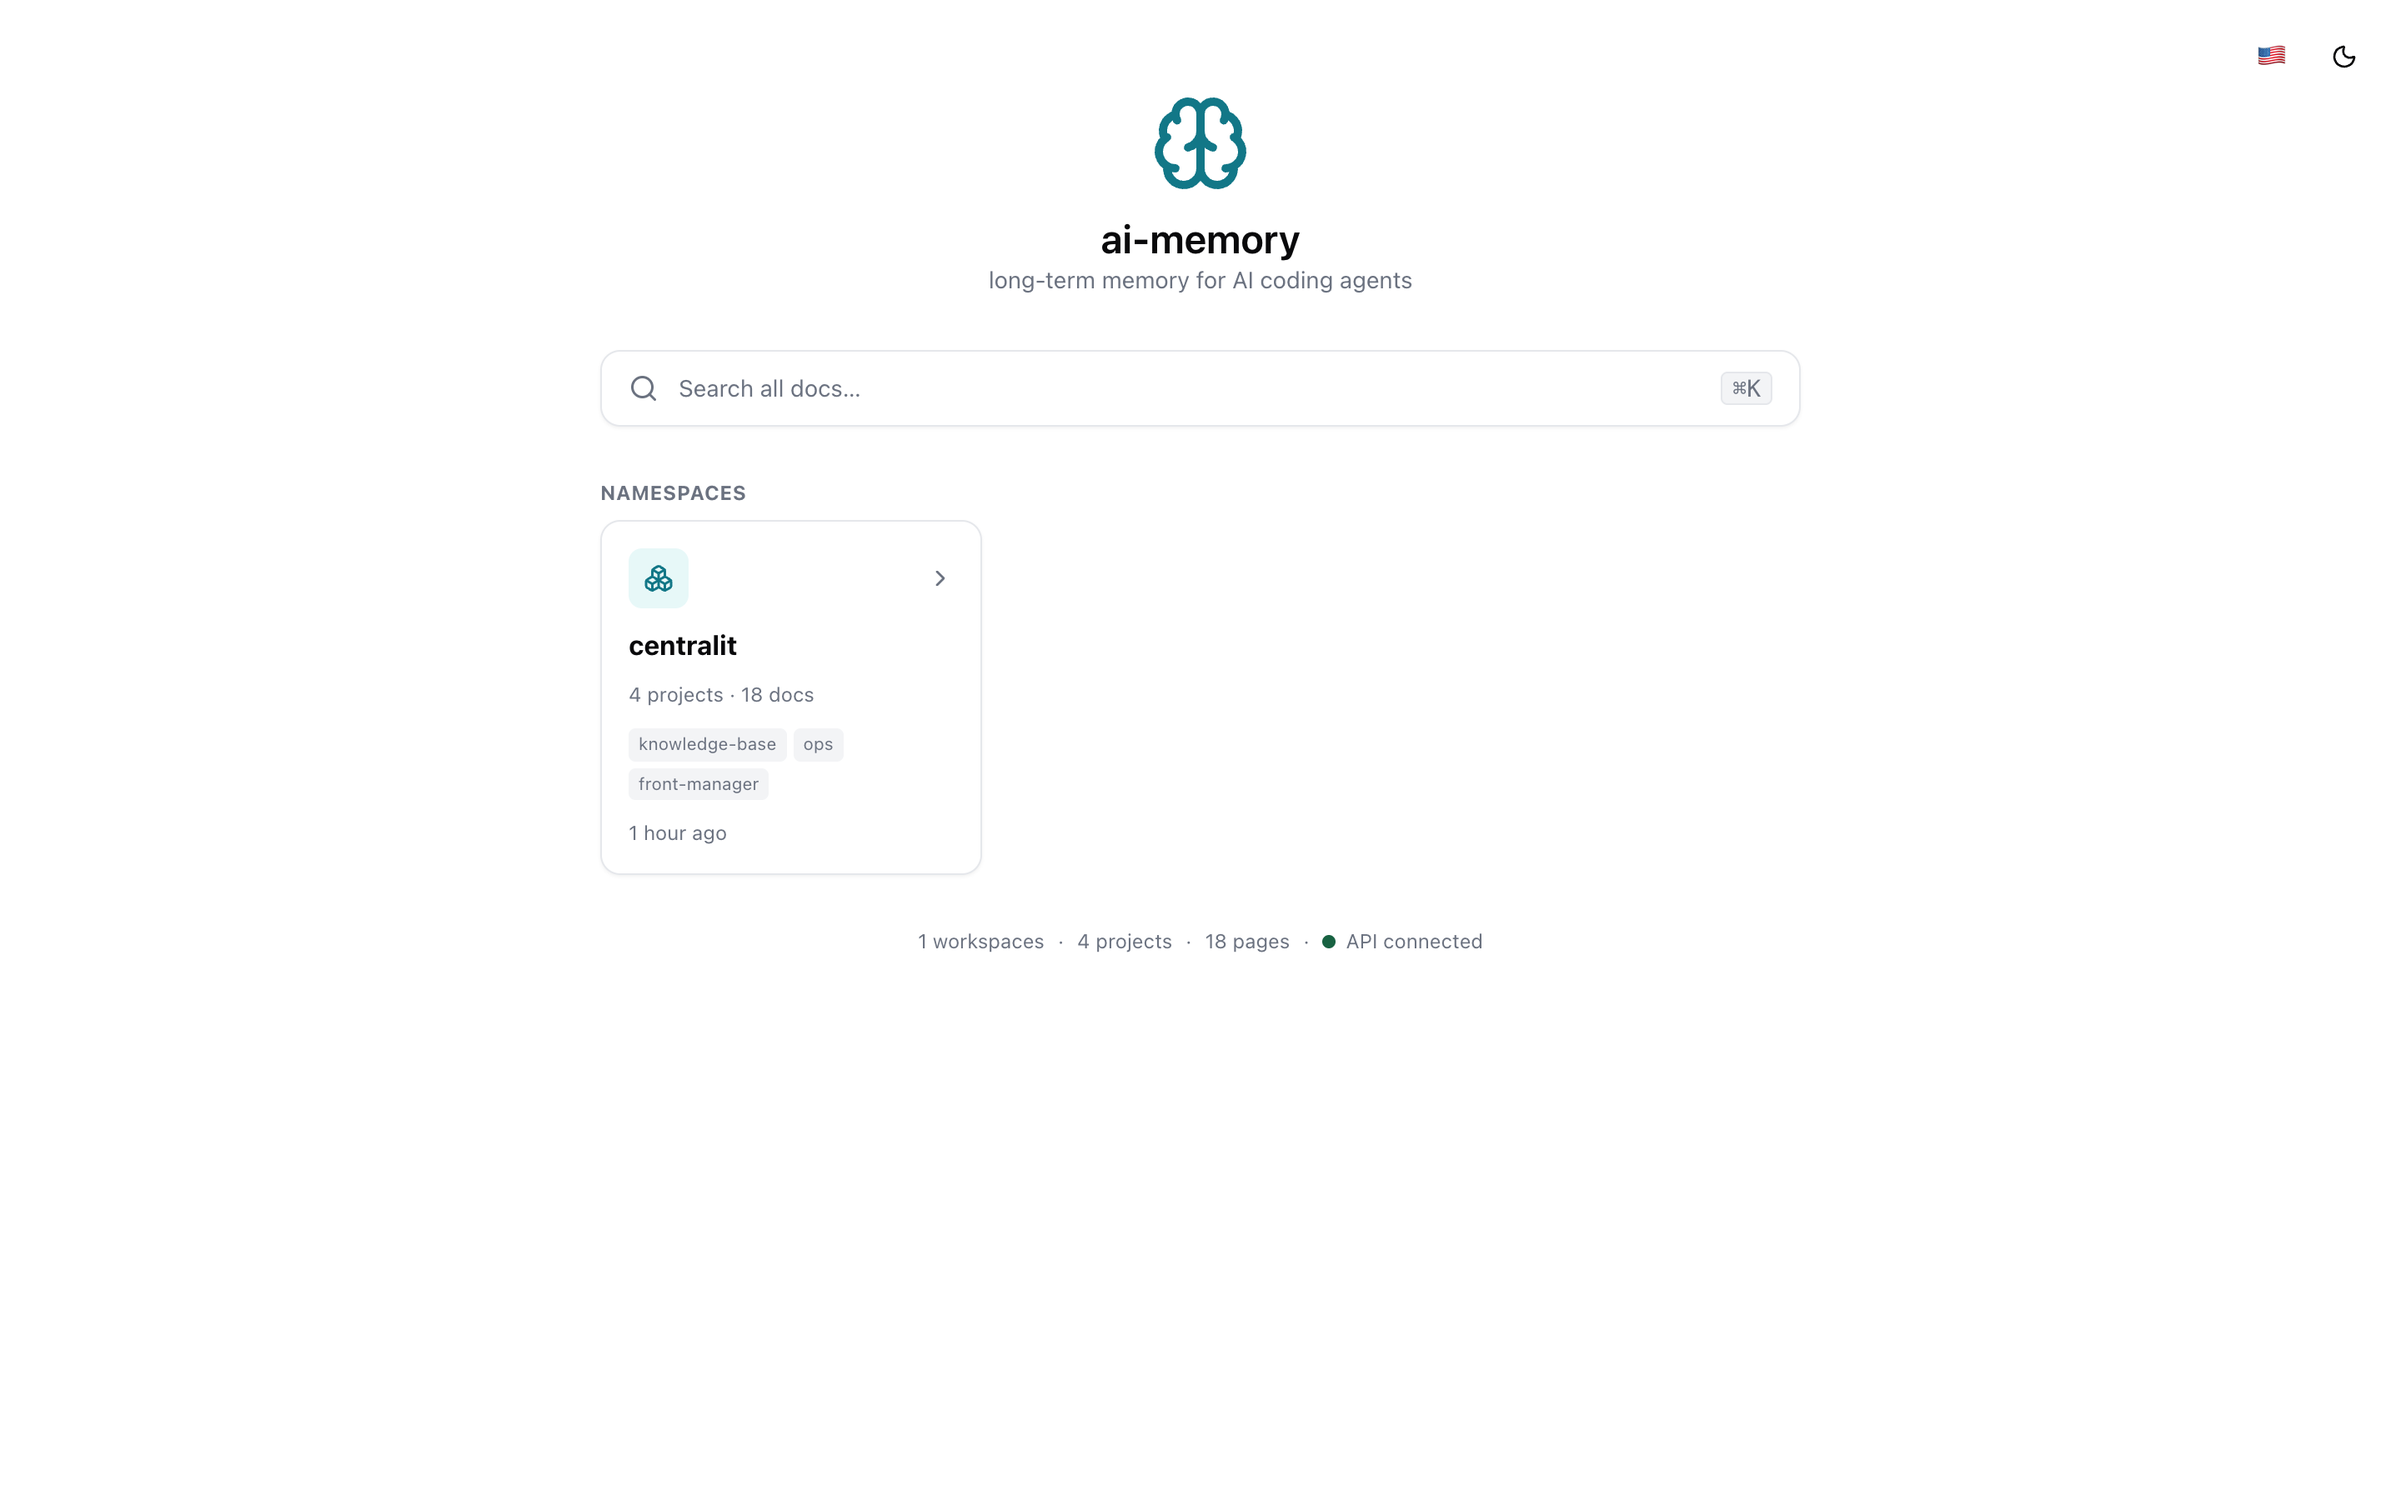
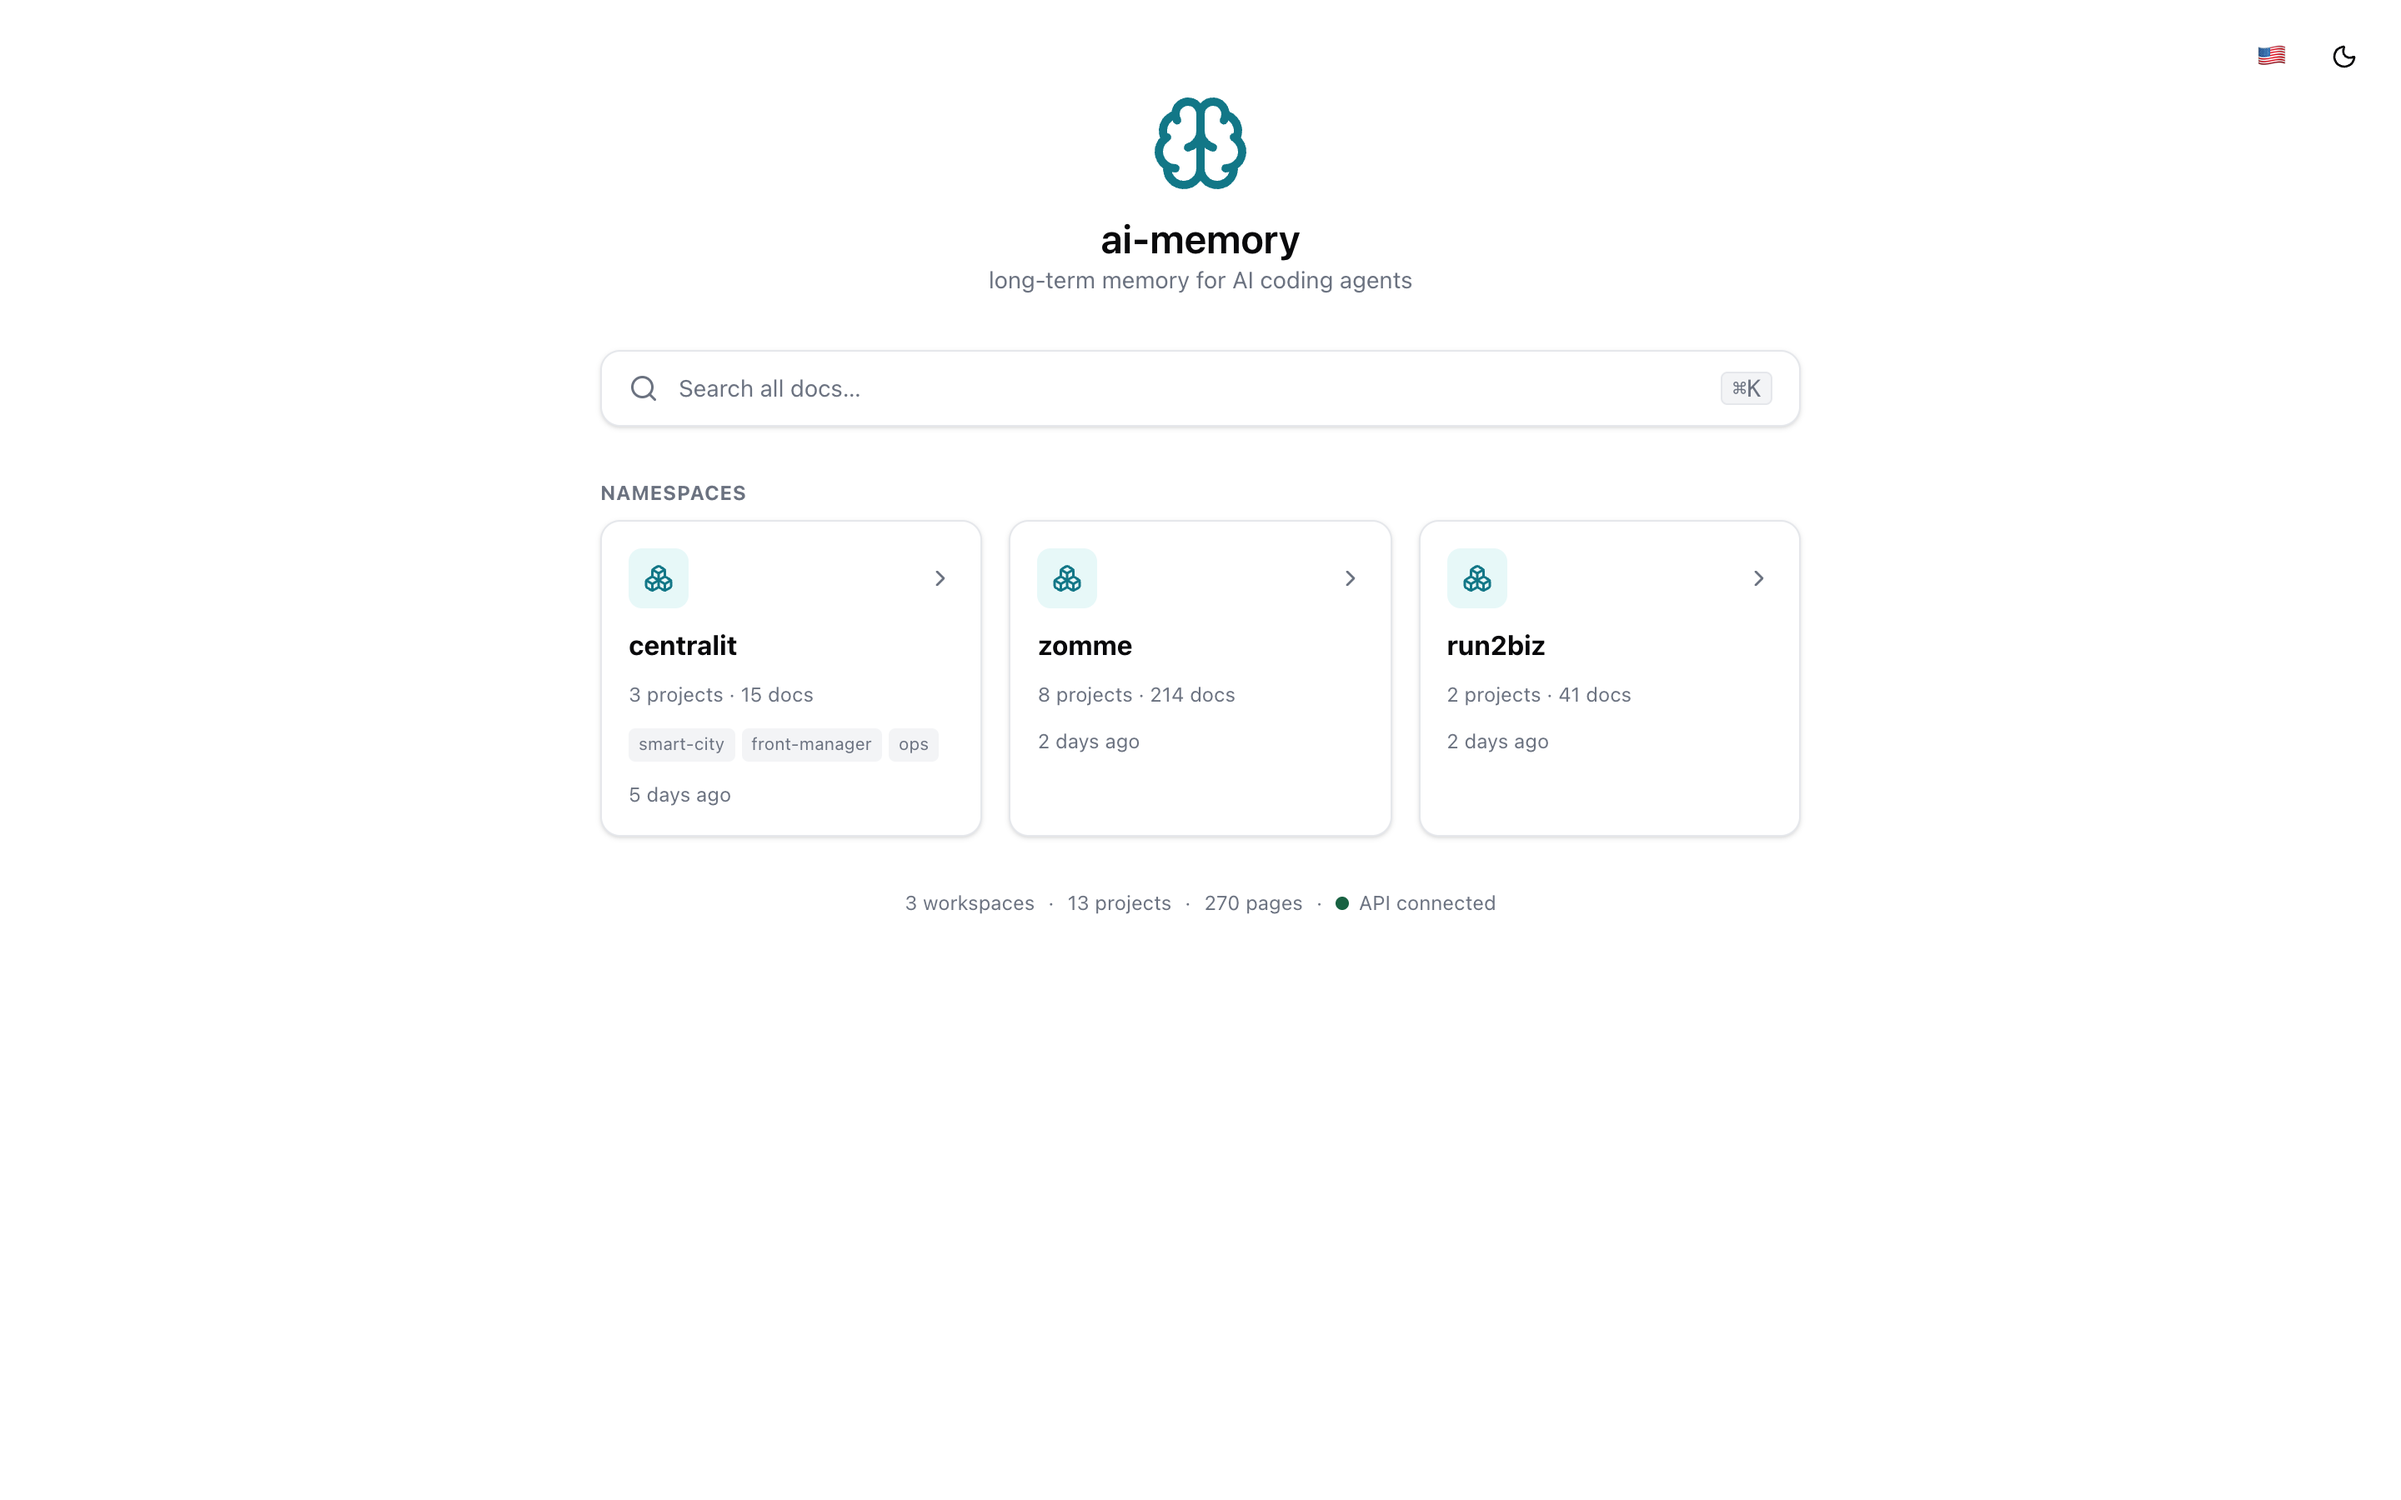
docs: refresh screenshots for new features + fix Tailwind version
- regenerate screenshots against fixtures (workspace/project overview now show
  handoff + memory-health; document shows references/back-links + frontmatter card)
- screenshots.mjs: expand the frontmatter card on the document shot; document
  the fixtures usage (BASE=localhost:5199)
- README: stack says Tailwind CSS v4 (@tailwindcss/vite), not v3

diff --git a/README.md b/README.md
@@ -58,7 +58,7 @@ search and without copying pages between workspaces.
 ## Stack
 
 - SolidJS + TanStack Router (file-based) + TanStack Query
-- Tailwind CSS v3 + Kobalte (solid-ui components)
+- Tailwind CSS v4 (`@tailwindcss/vite`) + Kobalte (solid-ui components)
 - i18n via inlang Paraglide JS (`en` / `pt-BR` / `es`)
 
 ## Develop
